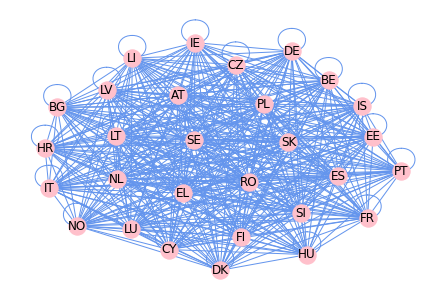
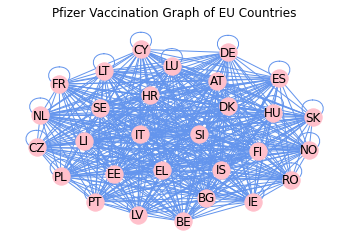
added communities graph updated countries_graph

diff --git a/graphAnalysis.py b/graphAnalysis.py
@@ -65,6 +65,7 @@ mapping = {0: "AT", 1: "BE", 2: "BG", 3:'CY', 4:'CZ', 5:'DE', 6:'DK', 7:'EE', 8:
            12:'HR', 13:'HU', 14:'IE', 15:'IS', 16:'IT', 17:'LI', 18:'LT', 19:'LU', 20:'LV', 21:'NL', 22:'NO',
            23:'PL', 24:'PT', 25:'RO', 26:'SE', 27:'SI', 28:'SK' }
 H = nx.relabel_nodes(G, mapping)
+plt.title("Pfizer Vaccination Graph of EU Countries")
 nx.draw(H, with_labels=True, node_color='pink', edge_color='#6495ED')
 plt.show()
 
@@ -78,9 +79,9 @@ print(node_groups)
 color_map = []
 for node in H:
     if node in node_groups[0]:
-        color_map.append('blue')
+        color_map.append('yellow')
     else:
-        color_map.append('green')
+        color_map.append('red')
 plt.title("Communities of EU Countries")
-nx.draw(H, node_color=color_map, with_labels=True)
+nx.draw(H, node_color=color_map,edge_color='#6495ED', with_labels=True)
 plt.show()
